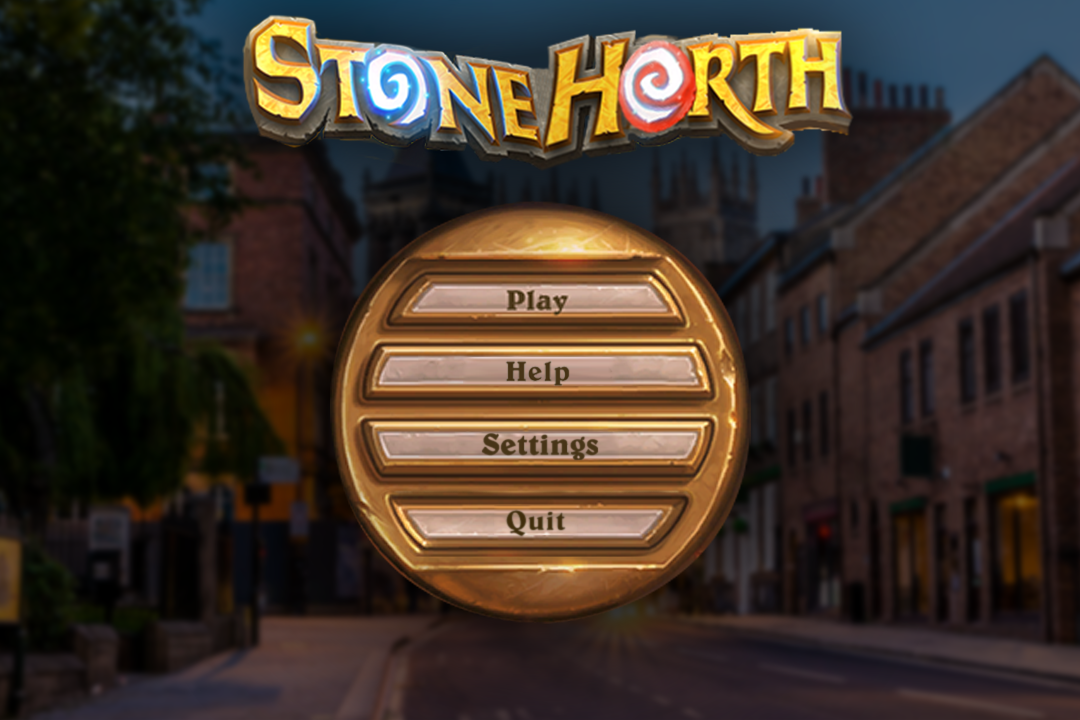
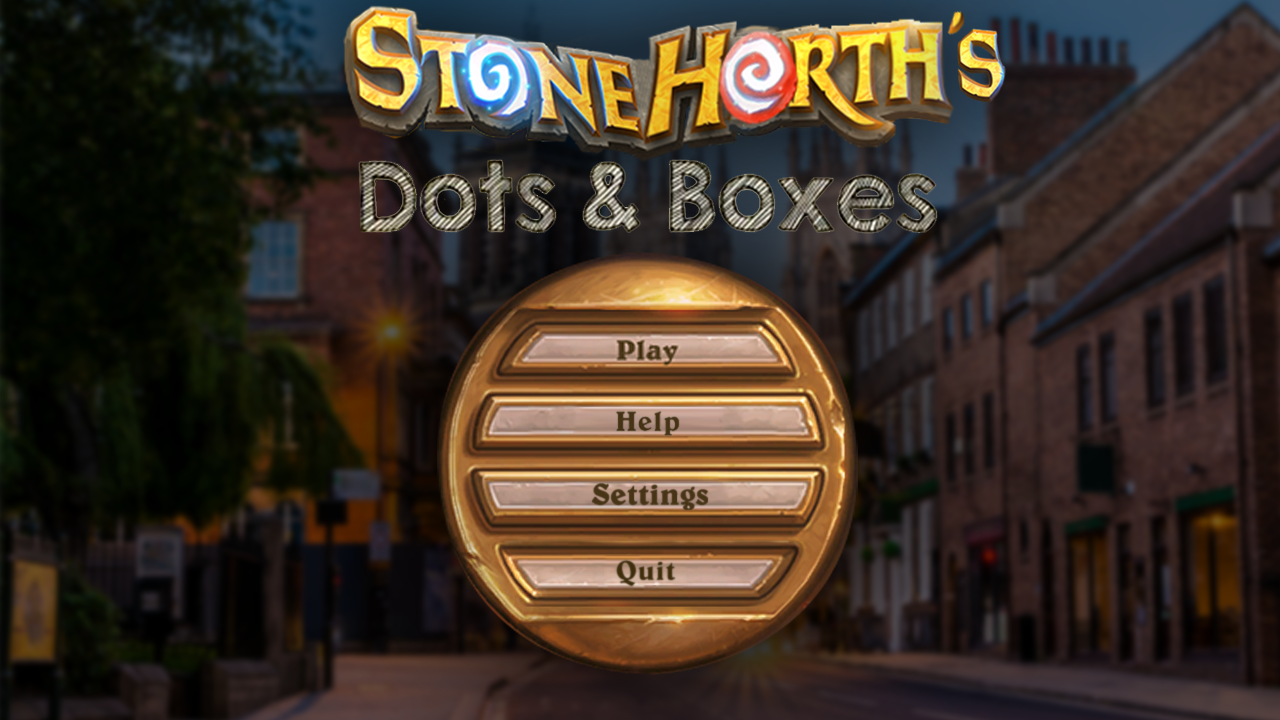
Add files via upload

diff --git a/finalcpt.java b/finalcpt.java
@@ -2,7 +2,6 @@ import java.awt.*;
 import javax.swing.*;
 import java.awt.event.*;
 import javax.swing.event.*;
-import javax.imageio.*;
 
 public class finalcpt implements ActionListener{
 	// Properties
@@ -13,9 +12,7 @@ public class finalcpt implements ActionListener{
 	JButton but3 = new JButton("Settings");
 	JButton but4 = new JButton("Quit");
 	JLabel label = new JLabel("StoneHearth");
-	int backX = 1280;
-	int backY = 720;
-	BufferedImage imgfile = null;
+	background thepanel = new background();
 
 	// Methods
 	public void actionPerformed(ActionEvent evt){
@@ -23,15 +20,11 @@ public class finalcpt implements ActionListener{
 		}
 	}
 
-	public void paintComponent(Graphics g){
-		g.drawImage(imgfile, backX, backY, null);
-	}
-
 	// Constructor
 	public finalcpt(){
-		super();
 		panel.setLayout(null);
 		panel.setPreferredSize(new Dimension(1280, 720));
+		thepanel.setPreferredSize(new Dimension(1280, 720));
 		but1.setSize(640, 50);
 		but1.setLocation(320,100);
 		but1.addActionListener(this);
@@ -53,13 +46,9 @@ public class finalcpt implements ActionListener{
 		panel.add(label);
 		frame.setDefaultCloseOperation(JFrame.EXIT_ON_CLOSE);
 		frame.setContentPane(panel);
+		frame.setContentPane(thepanel);
 		frame.pack();
 		frame.setVisible(true);
-		try{
-			imgfile = ImageIO.read(new File("background.png"));
-		}catch(IOException e){
-			System.out.println("Unable to load image");
-		}
 
 	}
 

diff --git a/background.java b/background.java
@@ -1,0 +1,21 @@
+import java.awt.*;
+import javax.swing.*;
+import javax.swing.ImageIcon.*;
+import java.awt.image.*;
+
+public class background extends JPanel{
+	// Properties
+	public ImageIcon image;
+	public JLabel labelImage;
+	ImageIcon printImage = new javax.swing.ImageIcon("background.png");
+
+	// Methods
+	public void paintComponent(Graphics g){
+		g.drawImage(printImage.getImage(), 0, 0, null);
+	}
+
+	// Constructor
+	public background(){
+		super();
+	}
+}
